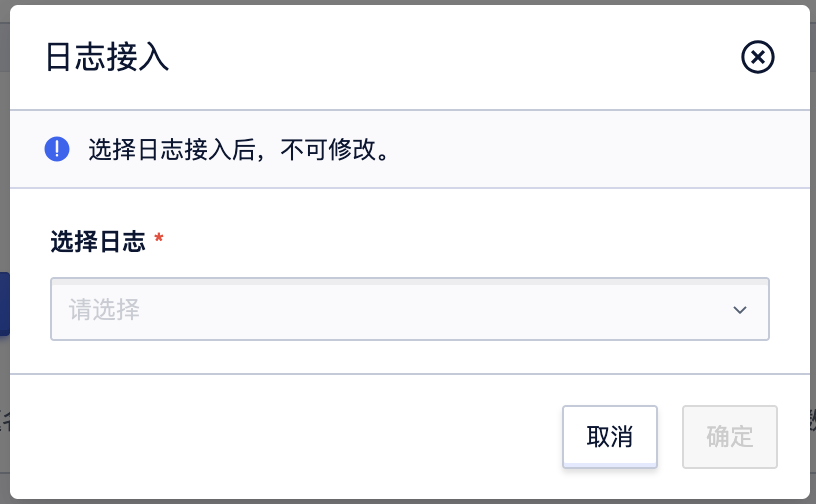
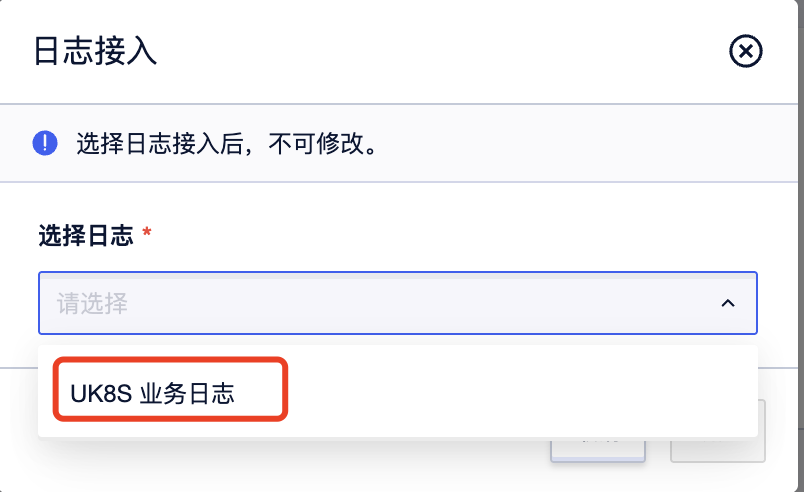
文档修改

Changed region(s): [[0.0, 0.0, 0.995, 1.0], [0.9017, 0.061, 0.9639, 0.1524], [0.995, 0.7927, 1.0, 0.8841]]

diff --git a/resource/topic.md b/resource/topic.md
@@ -1,47 +1,99 @@
 # 主题管理
 
-日志主题是日志数据在日志服务 ULS 平台进行采集、存储、检索的基本单元，采集到的海量日志以日志主题为单元进行管理。
+日志主题是日志数据在日志服务进行采集、存储、检索的基本单元，采集到的海量日志以日志主题为单元进行管理。
 
 ## 创建主题
 
-1. 登录 [ULS 控制台](https://console.ucloud.cn/ulogservice/topic)，进入 ULS 主题管理。
-2. 单击创建主题。
-   ![创建主题1](/images/topic/create_topic_1.png)
-3. 填写主题名称（支持字母、数字、_）、分区数、保存时间
-   ![创建主题2](/images/topic/create_topic_2.png)
+登录 [ULogservice控制台](https://console.ucloud.cn/ulogservice/topic)，进入主题管理。
 
-> 注，保存时间：
->
-> - 有效期保存最长为360天
+单击创建主题。
 
-## 索引配置
+![创建主题1](/images/topic/create_topic_1.png)
 
-1. 在主题列表中，找到需要配置索引的主题，在右侧操作列表中点击查看索引配置、并点击编辑。
-   ![索引配置1](/images/topic/index_config_1.png)
-2. 在索引配置页面，点击开启索引状态，并添加或删除字段。
+填写主题名称、保存时间。
 
+![创建主题2](/images/topic/create_topic_2.png)
+
+**说明：有效期保存最长为360天**
+
+## 日志接入
+
+点击”日志接入“按钮，选择不同数据源进行日志接入。
+
+![log_collect_config](/images/topic/log_collect_config.png)
+
+## 检索分析
+点击检索分析跳转至主题日志查询页面。
+
+![检索导航](/images/topic/topic_navigate_1.png) 
+
+
+## 查看采集配置
+
+点击”查看采集配置“按钮可查看该主题已接入的采集配置信息，具体见[日志检索](/ulogservice/resource/search.md)。
+
+![collect_rule_button](/images/topic/collect_rule_button.png) 
+
+采集配置信息包括：
+* 采集规则名称
+* 日志源
+* 关联资源
+* 路径
+* 提取模式
+* 采集策略
+
+![collect_rule_list](/images/topic/collect_rule_list.png) 
+
+### 采集配置修改
+
+选择指定的采集配置，点击”详情“按钮进入采集配置详情页。
+
+![collect_rule_detail](/images/topic/collect_rule_detail.png) 
+
+点击”编辑“按钮进行修改采集配置规则。
+
+![collect_rule_update](/images/topic/collect_rule_update.png) 
+
+### 采集配置删除
+
+当指定采集配置日志不再收集时，可删除该采集配置，点击列表”删除“按钮进行删除。规则删除之后对应日志不再继续收集。
+
+![collect_rule_delete](/images/topic/collect_rule_delete.png) 
+
+## 查看索引配置
+
+选择指定的采集配置，点击”查看索引配置“按钮查看已配置索引信息。
+
+![log_index_detail](/images/topic/log_index_detail.png) 
+
+### 修改索引配置
+
+点击”编辑“按钮进行索引配置修改。
+
+![log_index_detail](/images/topic/log_index_info.png) 
+
+
+![log_index_update](/images/topic/log_index_update.png) 
+
+* 索引启用状态：关闭索引后将无法检索和查询采集到的日志，请谨慎操作。
+* 索引字段：点击开启索引状态，并添加或删除字段。
    | 字段数据类型 | 说明         |
    | ------------ | ---------- |
    | text         | 支持字段搜索 |
    | long         | 支持范围比较 |
    | double       | 支持范围比较 |
-3. 点击确定，等待更新完成。
 
-## 查询主题
+说明：系统默认字段不支持修改与删除。
+  
+## 主题编辑
 
-1. 点击检索分析跳转至主题日志查询页面。
-   ![检索导航](/images/topic/topic_navigate_1.png) 
-
-## 编辑主题
-
-1. 修改主题保存时间。
-   ![主题编辑](/images/topic/topic_edit_1.png)
+修改主题保存时间。
+![主题编辑](/images/topic/topic_edit_1.png)
 
 ## 删除主题
-1. 在主题列表中，找到需要删除的主题，在右侧操作列表中点击删除。
-   ![主题删除](/images/topic/topic_delete_1.png)
+ 在主题列表中，找到需要删除的主题，在右侧操作列表中点击删除。
 
-> 注：
->
-> - 主题删除后，数据无法恢复
+![主题删除](/images/topic/topic_delete_1.png)
+
+**说明：主题删除后，数据无法恢复**
 

diff --git a/_sidebar.md b/_sidebar.md
@@ -1,18 +1,22 @@
 
 * [概览](/ulogservice/README)
-* [产品简介](/ulogservice/introduction)
+* 产品简介
+  * [什么是日志服务](/ulogservice/introduction)
+  * [功能特性](/ulogservice/features)
+  * [产品优势](/ulogservice/advantages)
 * 操作指南
-   * 资源管理
-     * [日志集](/ulogservice/resource/logset)
-     * [日志主题](/ulogservice/resource/topic)
-   * 日志采集
-     * [采集 UK8S 集群日志](/ulogservice/collect/UK8S)
-     * 采集文本日志
-       * [使用单行全文提取模式采集日志](/ulogservice/collect/text/minimal_line)
-       * [使用多行全文提取模式采集日志](/ulogservice/collect/text/multi_line)
-       * [使用单行-完全正则提取模式采集日志](/ulogservice/collect/text/full_regex)
-       * [使用多行-完全正则提取模式采集日志](/ulogservice/collect/text/multi_line_full_regex)
-       * [使用 JSON 提取模式采集日志](/ulogservice/collect/text/json)
-       * [使用分隔符提取模式采集日志](/ulogservice/collect/text/delimiter)
-   * [日志检索](/ulogservice/operate/search)
+  * [日志集](/ulogservice/resource/logset)
+  * [日志主题](/ulogservice/resource/topic)
+  * 日志采集
+    * [采集 UK8S 集群日志](/ulogservice/collect/UK8S)
+    * 采集文本日志
+      * [使用单行全文提取模式采集日志](/ulogservice/collect/text/minimal_line)
+      * [使用多行全文提取模式采集日志](/ulogservice/collect/text/multi_line)
+      * [使用单行-完全正则提取模式采集日志](/ulogservice/collect/text/full_regex)
+      * [使用多行-完全正则提取模式采集日志](/ulogservice/collect/text/multi_line_full_regex)
+      * [使用 JSON 提取模式采集日志](/ulogservice/collect/text/json)
+      * [使用分隔符提取模式采集日志](/ulogservice/collect/text/delimiter)
+  * [日志检索](/ulogservice/operate/search)
 * [接入指南](/ulogservice/operate/practice)
+* [产品定价](/ulogservice/operate/price)
+

diff --git a/resource/logset.md b/resource/logset.md
@@ -1,17 +1,31 @@
 # 日志集
 
-日志集则是对日志主题的分类，方便用户管理日志主题。
+日志集是日志主题的集合，您可以根据业务归属等规则进行日志主题进行分类，便于日志主题管理。
 
 ## 创建日志集
 
-1. 登录 [ULS 控制台](https://console.ucloud.cn/ulogservice/topic)，进入 ULS 主题管理。
-2. 在日志集页面，单击新建日志集，创建日志集。
-   ![创建主题集](/images/logset/logset_create_1.png)
+登录 [ULS 控制台](https://console.ucloud.cn/ulogservice/topic)，进入 ULS 主题管理。
+
+![创建主题集](/images/logset/logset_create_0.png)
+
+在主题管理页，单击新建日志集，创建日志集。
+ ![创建主题集](/images/logset/logset_create_1.png)
+
 ## 编辑日志集
 
-1. 修改日志集名称与备注。
-   ![修改主题集](/images/logset/logset_edit_1.png)
+点击下图按钮，进行修改日志集名称与备注。
+
+![修改主题集](/images/logset/logset_update_00.png)
+
+
+![修改主题集](/images/logset/logset_edit_1.png)
+
 ## 删除日志集
 
-1. 删除日志集时，确保当前日志集下没有日志主题。
-   ![删除主题集](/images/logset/logset_delete_1.png)
+点击下图按钮，删除日志集。注意日志集没有日志主题才可删除。
+
+
+![修改主题集](/images/logset/logset_delete_11.png)
+
+
+![删除主题集](/images/logset/logset_delete_1.png)

diff --git a/introduction.md b/introduction.md
@@ -1,21 +1,3 @@
 # 产品简介
 
-日志服务 (UCloud Log Service,  ULS) 是一款支持日志（Log）数据的采集、检索分析、可视化的一体化可观测服务。
-
-## 功能概览
-
-日志服务主要提供以下功能：
-
-### 资源管理
-
-日志服务是以日志主题及日志集的方式管理其上存储的日志数据。
-
-### 日志采集
-
-日志服务支持对多种不同数据源日志采集。
-
-### 日志检索分析
-
-针对存储在 ULS 的日志进行实时检索分析，帮助用户快速定位异常日志。
-
-日志检索：使用关键词按全文或字段检索日志。
+ULogservice日志服务是日志类数据一站式处理与分析平台，提供数据采集、存储、检索分析、可视化等功能。适用于业务运维与监控、数据统计与分析等场景， 提升云上运维效率。

diff --git a/collect/UK8S.md b/collect/UK8S.md
@@ -18,7 +18,7 @@
 3. 选择接入日志类型，进入选择 UK8S 页面。
 ![日志接入2](/images/uk8s/uk8s_access_2.png)
 
-4. 选择 UK8S 集群，进入采集配置页面
+4. 选择 UK8S 集群，进入采集配置页面，选择需要接入的UK8S集群实例
 ![日志接入3](/images/uk8s/uk8s_access_3.png)
 
 ### 步骤2：配置采集规则
@@ -54,8 +54,9 @@
 
 1. 单击完成创建，进入“索引配置”页面。
 
-2. 在“索引配置”页面，设置如下信息
+2. 在“索引配置”页面，根据业务需求设置索引配置信息。
 ![日志采集4](/images/uk8s/uk8s_collect_4.png)
 
 ### 步骤4：检索日志
+
 至此，即完成了 UK8S 集群业务日志采集的所有部署。您可以前往  [控制台 > 检索分析](https://console.ucloud.cn/ulogservice/ulogservice) 查看采集上来的日志。

diff --git a/README.md b/README.md
@@ -1,10 +1,11 @@
 
 * [概览](/ulogservice/README)
-* [产品简介](/ulogservice/introduction)
+* 产品简介
+  * [什么是日志服务](/ulogservice/introduction)
+  * [产品优势](/ulogservice/advantages)
 * 操作指南
-  * 资源管理
-    * [日志集](/ulogservice/resource/logset)
-    * [日志主题](/ulogservice/resource/topic)
+  * [日志集](/ulogservice/resource/logset)
+  * [日志主题](/ulogservice/resource/topic)
   * 日志采集
     * [采集 UK8S 集群日志](/ulogservice/collect/UK8S)
     * 采集文本日志
@@ -16,4 +17,5 @@
       * [使用分隔符提取模式采集日志](/ulogservice/collect/text/delimiter)
   * [日志检索](/ulogservice/operate/search)
 * [接入指南](/ulogservice/operate/practice)
+* [产品定价](/ulogservice/operate/price)
 

diff --git a/advantages.md b/advantages.md
@@ -1,0 +1,10 @@
+# 产品优势
+
+## 使用便捷
+全托管服务，您无需自建ELK等日志解决方案，无需关心计算与存储资源，按量付费，避免资源闲置浪费问题。
+
+## 秒级检索
+近乎实时的日志写入与流式存储，支持数据秒级可见。
+
+## 稳定可靠
+采用分布式架构，底层数据存储采取多副本机制，保证数据存储安全可靠。

diff --git a/price.md b/price.md
@@ -1,0 +1,3 @@
+## 产品定价
+
+公测期间暂不收费，后续收费信息以产品通知为准。
